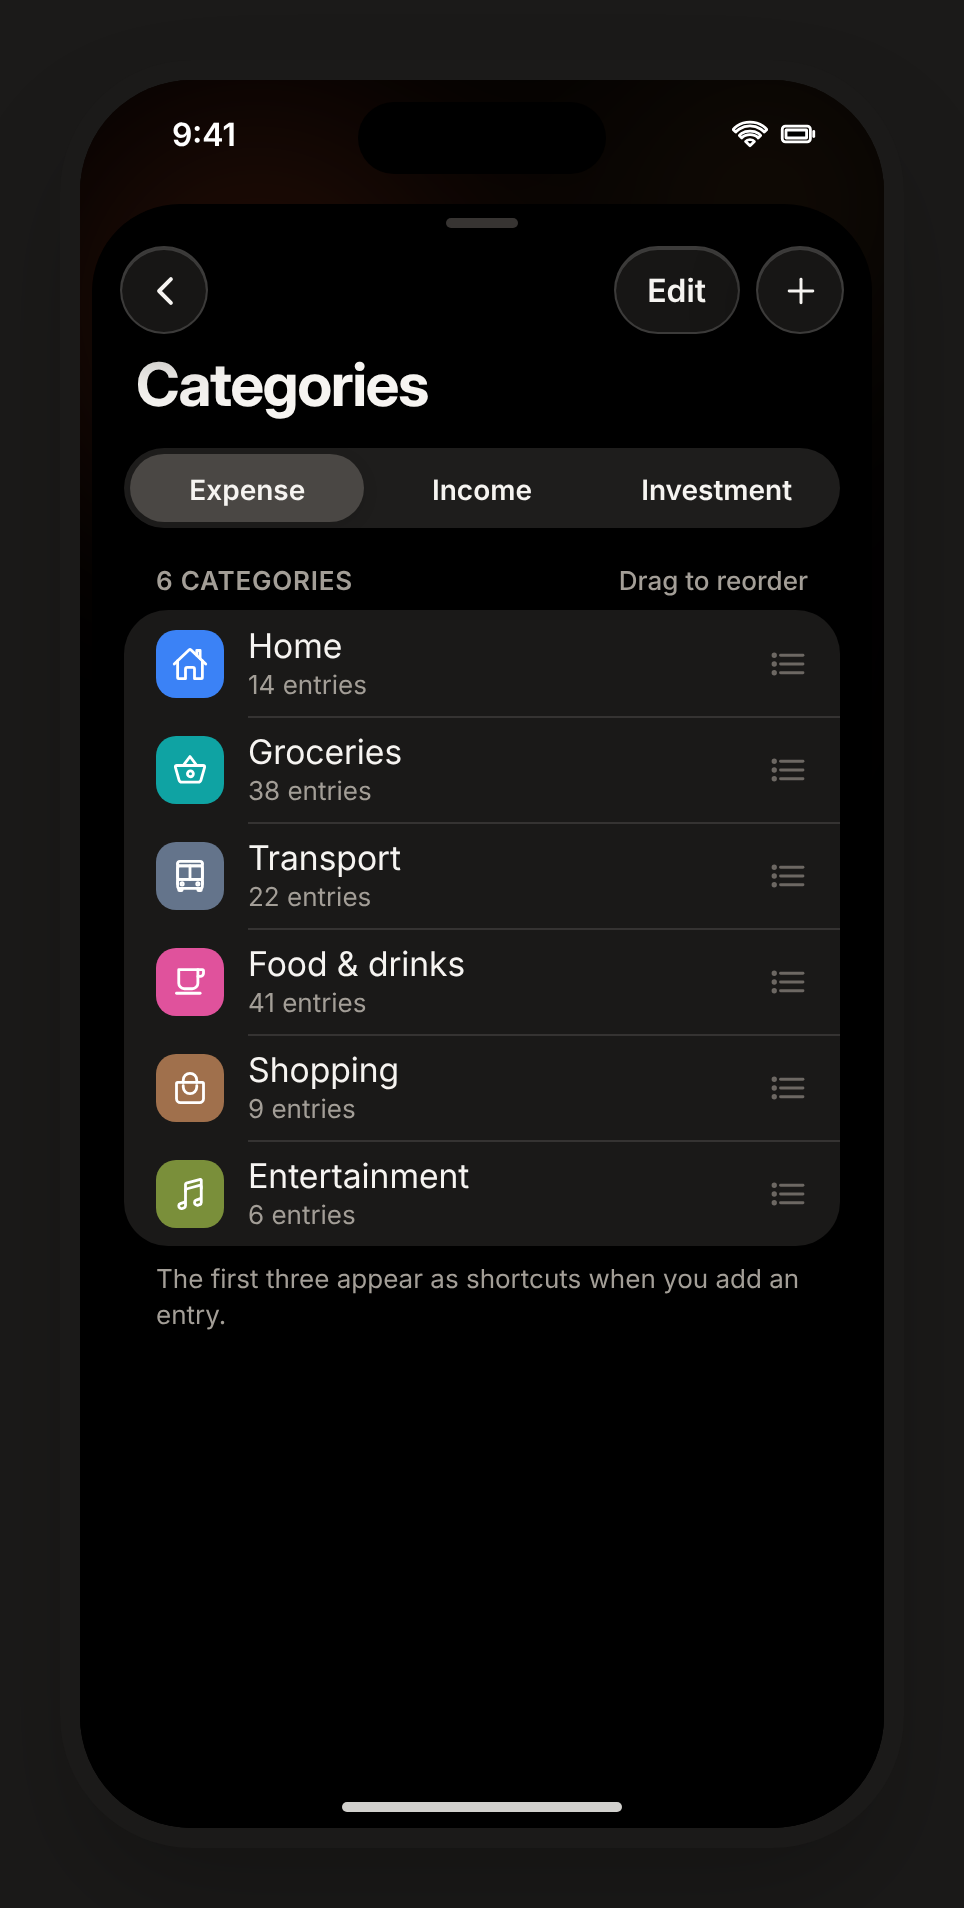
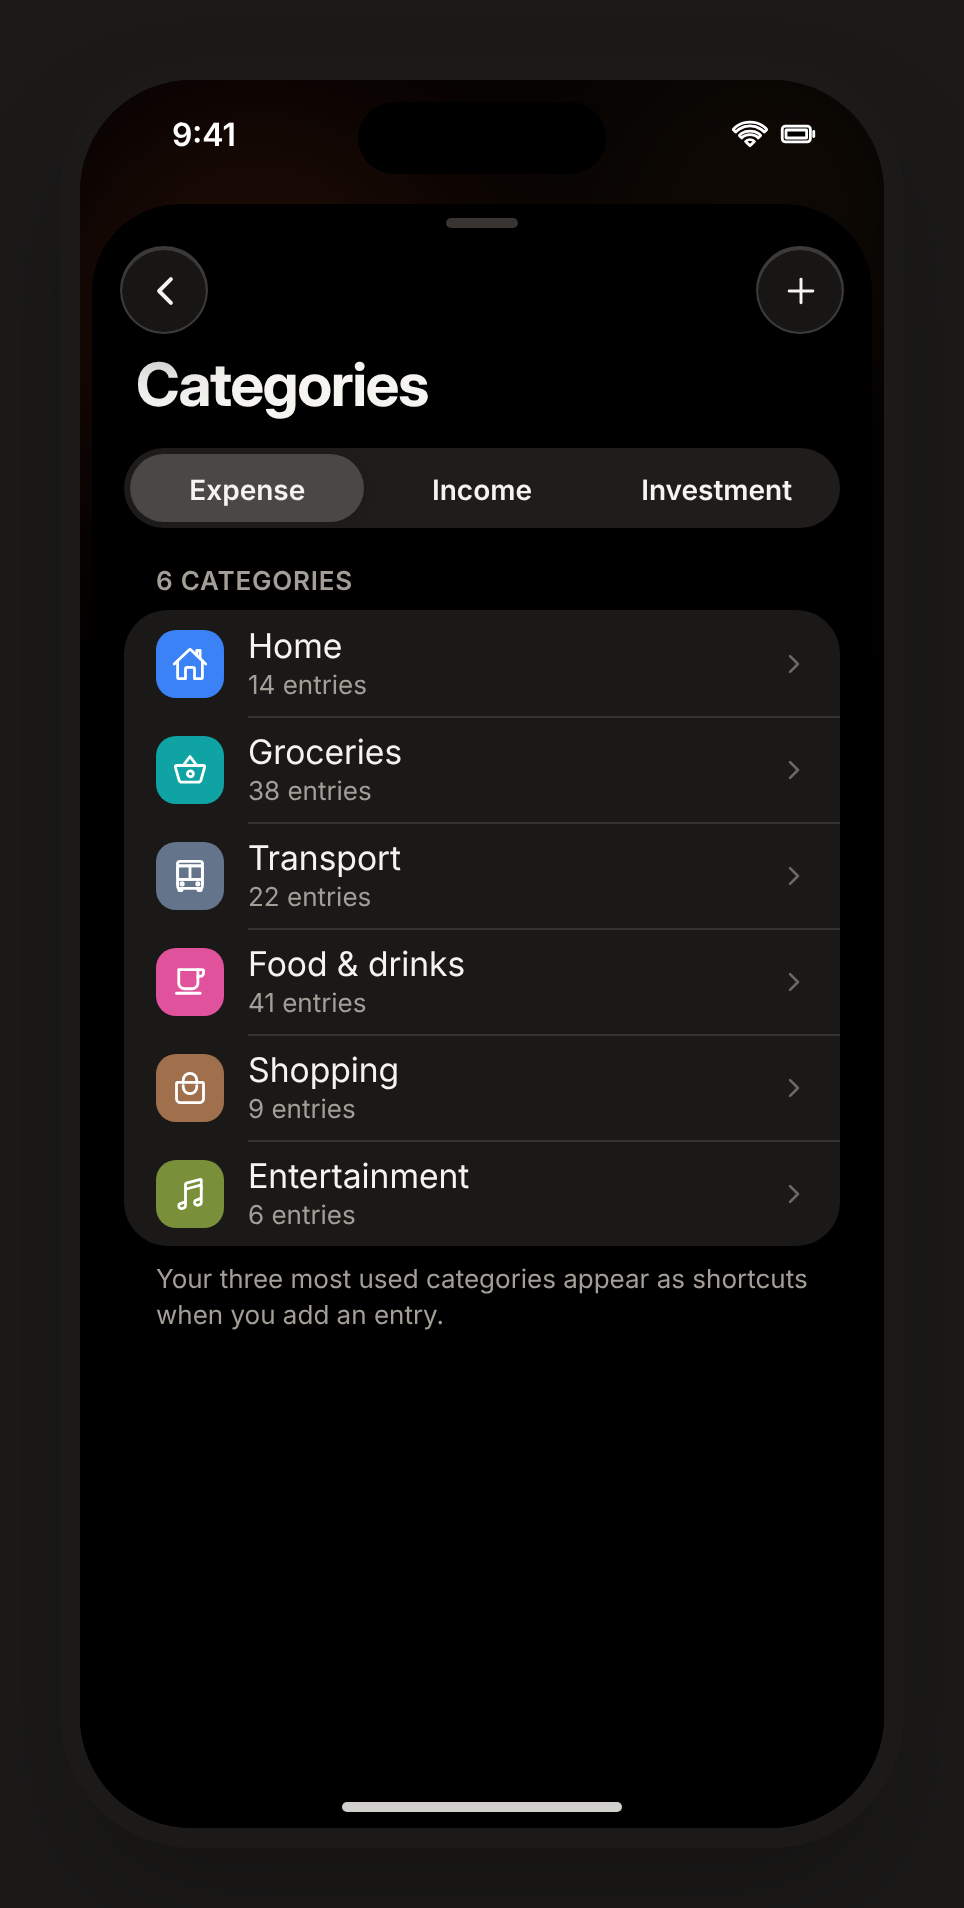
docs(design): drop category reorder, take the app's Reduce transparency wording and center Sign out on the cards
Owner decisions on the Categories, Appearance and sign-out cards: no
Edit, handles or Drag to reorder and a most-used footer on Categories;
the app's Reduce transparency wording and no Text size chevron on
iphone-appearance and ipad-settings; the Settings Sign out row as
centered red text on both sign-out cards. Baselines re-rendered in the
Playwright image.

diff --git a/docs/design/penny-ios/iphone/categories.html b/docs/design/penny-ios/iphone/categories.html
@@ -36,7 +36,6 @@
   .field .cur { width: 2px; height: 22px; background: var(--tint); margin-left: 1px; border-radius: 1px; }
   .seg.in { margin: 0 16px; }
 
-  .handle { width: 20px !important; height: 20px !important; color: var(--label-3); margin-left: auto; }
   .sr + .sr::before { left: 62px; }
   .seg.in { margin-top: 14px; }
   .gh { padding-top: 18px; }
@@ -49,19 +48,19 @@
   <div class="status" style="color:#fff"><span>9:41</span><span class="r"><i data-i="wifi"></i><i data-i="battery-full"></i></span></div>
   <div class="sheet">
     <div class="grabber"></div>
-    <div class="bar"><div class="side"><div class="glass gbtn"><i data-i="chevron-back"></i></div></div><h2></h2><div class="side r"><div class="glass gcap" style="height:44px">Edit</div><div class="glass gbtn"><i data-i="add"></i></div></div></div>
+    <div class="bar"><div class="side"><div class="glass gbtn"><i data-i="chevron-back"></i></div></div><h2></h2><div class="side r"><div class="glass gbtn"><i data-i="add"></i></div></div></div>
     <div class="ltitle">Categories</div>
     <div class="seg in"><div class="on">Expense</div><div>Income</div><div>Investment</div></div>
-    <div class="gh"><span>6 categories</span><span style="text-transform:none;letter-spacing:0;font-weight:500">Drag to reorder</span></div>
+    <div class="gh"><span>6 categories</span></div>
     <div class="glist">
-      <div class="sr"><div class="si" style="background:var(--c-home);color:#fff;width:34px;height:34px;border-radius:10px"><i data-i="home"></i></div><div class="tx">Home<small>14 entries</small></div><i data-i="list" class="handle"></i></div>
-      <div class="sr"><div class="si" style="background:var(--c-groceries);color:#fff;width:34px;height:34px;border-radius:10px"><i data-i="basket"></i></div><div class="tx">Groceries<small>38 entries</small></div><i data-i="list" class="handle"></i></div>
-      <div class="sr"><div class="si" style="background:var(--c-transport);color:#fff;width:34px;height:34px;border-radius:10px"><i data-i="bus"></i></div><div class="tx">Transport<small>22 entries</small></div><i data-i="list" class="handle"></i></div>
-      <div class="sr"><div class="si" style="background:var(--c-food);color:#fff;width:34px;height:34px;border-radius:10px"><i data-i="cafe"></i></div><div class="tx">Food &amp; drinks<small>41 entries</small></div><i data-i="list" class="handle"></i></div>
-      <div class="sr"><div class="si" style="background:var(--c-shopping);color:#fff;width:34px;height:34px;border-radius:10px"><i data-i="bag-handle"></i></div><div class="tx">Shopping<small>9 entries</small></div><i data-i="list" class="handle"></i></div>
-      <div class="sr"><div class="si" style="background:var(--c-entertainment);color:#fff;width:34px;height:34px;border-radius:10px"><i data-i="musical-notes"></i></div><div class="tx">Entertainment<small>6 entries</small></div><i data-i="list" class="handle"></i></div>
+      <div class="sr"><div class="si" style="background:var(--c-home);color:#fff;width:34px;height:34px;border-radius:10px"><i data-i="home"></i></div><div class="tx">Home<small>14 entries</small></div><span class="v"><i data-i="chevron-forward" class="chev"></i></span></div>
+      <div class="sr"><div class="si" style="background:var(--c-groceries);color:#fff;width:34px;height:34px;border-radius:10px"><i data-i="basket"></i></div><div class="tx">Groceries<small>38 entries</small></div><span class="v"><i data-i="chevron-forward" class="chev"></i></span></div>
+      <div class="sr"><div class="si" style="background:var(--c-transport);color:#fff;width:34px;height:34px;border-radius:10px"><i data-i="bus"></i></div><div class="tx">Transport<small>22 entries</small></div><span class="v"><i data-i="chevron-forward" class="chev"></i></span></div>
+      <div class="sr"><div class="si" style="background:var(--c-food);color:#fff;width:34px;height:34px;border-radius:10px"><i data-i="cafe"></i></div><div class="tx">Food &amp; drinks<small>41 entries</small></div><span class="v"><i data-i="chevron-forward" class="chev"></i></span></div>
+      <div class="sr"><div class="si" style="background:var(--c-shopping);color:#fff;width:34px;height:34px;border-radius:10px"><i data-i="bag-handle"></i></div><div class="tx">Shopping<small>9 entries</small></div><span class="v"><i data-i="chevron-forward" class="chev"></i></span></div>
+      <div class="sr"><div class="si" style="background:var(--c-entertainment);color:#fff;width:34px;height:34px;border-radius:10px"><i data-i="musical-notes"></i></div><div class="tx">Entertainment<small>6 entries</small></div><span class="v"><i data-i="chevron-forward" class="chev"></i></span></div>
     </div>
-    <div class="gf">The first three appear as shortcuts when you add an entry.</div>
+    <div class="gf">Your three most used categories appear as shortcuts when you add an entry.</div>
   </div>
   <div class="home-ind"></div>
 </div>

diff --git a/docs/design/penny-ios/iphone/appearance.html b/docs/design/penny-ios/iphone/appearance.html
@@ -74,12 +74,12 @@
     <div class="gh">Display</div>
     <div class="glist">
       <div class="sr noi"><div class="tx">Show cents on Home<small>Left to spend shows $1,116.65 instead of $1,117.</small></div><div class="sw on"></div></div>
-      <div class="sr noi"><div class="tx">Reduce transparency<small>Use solid surfaces instead of glass for the navigation and toolbars. Your iPhone's own setting also applies.</small></div><div class="sw"></div></div>
+      <div class="sr noi"><div class="tx">Reduce transparency<small>Use solid navigation bars and controls instead of glass. Your iPhone's own setting also covers the tab bar and the bars' buttons.</small></div><div class="sw"></div></div>
       <div class="sr noi"><div class="tx">Week starts on</div><span class="v">Monday <i data-i="chevron-down" class="chev"></i></span></div>
     </div>
     <div class="gh">Text</div>
     <div class="glist">
-      <div class="sr noi"><div class="tx">Text size</div><span class="v">Follows iPhone <i data-i="chevron-forward" class="chev"></i></span></div>
+      <div class="sr noi"><div class="tx">Text size</div><span class="v">Follows iPhone</span></div>
     </div>
     <div class="gf">Penny supports Dynamic Type. Change text size in iPhone Settings › Display &amp; Brightness.</div>
   </div>

diff --git a/docs/design/penny-ios/iphone/sign-out.html b/docs/design/penny-ios/iphone/sign-out.html
@@ -19,6 +19,7 @@
   .grp-h { font-size: 13px; color: var(--label-2); text-transform: uppercase; letter-spacing: .03em; font-weight: 600; padding: 22px 20px 8px; }
   .srow { display: flex; align-items: center; gap: 12px; padding: 0 16px; height: 52px; font-size: 16px; position: relative; }
   .srow + .srow::before { content: ""; position: absolute; top: 0; left: 60px; right: 0; border-top: .5px solid var(--separator); }
+  .srow + .srow.noi::before { left: 16px; }
   .srow .ic { width: 30px; height: 30px; border-radius: 8px; }
   .srow .ic [data-i] { width: 17px; height: 17px; }
   .srow .v { margin-left: auto; color: var(--label-2); }
@@ -34,7 +35,7 @@
     <div class="list">
       <div class="srow"><div class="ic" style="background:#8E8A85"><i data-i="server"></i></div>Server<span class="v">penny.example.com</span></div>
       <div class="srow"><div class="ic" style="background:#8E8A85"><i data-i="cloud-offline"></i></div>Sync<span class="v">2 waiting</span></div>
-      <div class="srow" style="color:var(--danger)"><div class="ic" style="background:var(--danger)"><i data-i="log-out"></i></div>Sign out</div>
+      <div class="srow noi" style="justify-content:center;color:var(--danger);font-weight:500">Sign out</div>
     </div>
   </div>
   <div class="scrim"></div>

diff --git a/docs/design/penny-ios/iphone/sign-out-plain.html b/docs/design/penny-ios/iphone/sign-out-plain.html
@@ -19,6 +19,7 @@
   .grp-h { font-size: 13px; color: var(--label-2); text-transform: uppercase; letter-spacing: .03em; font-weight: 600; padding: 22px 20px 8px; }
   .srow { display: flex; align-items: center; gap: 12px; padding: 0 16px; height: 52px; font-size: 16px; position: relative; }
   .srow + .srow::before { content: ""; position: absolute; top: 0; left: 60px; right: 0; border-top: .5px solid var(--separator); }
+  .srow + .srow.noi::before { left: 16px; }
   .srow .ic { width: 30px; height: 30px; border-radius: 8px; }
   .srow .ic [data-i] { width: 17px; height: 17px; }
   .srow .v { margin-left: auto; color: var(--label-2); }
@@ -34,7 +35,7 @@
     <div class="list">
       <div class="srow"><div class="ic" style="background:#8E8A85"><i data-i="server"></i></div>Server<span class="v">penny.example.com</span></div>
       <div class="srow"><div class="ic" style="background:#8E8A85"><i data-i="cloud-done"></i></div>Sync<span class="v">Up to date</span></div>
-      <div class="srow" style="color:var(--danger)"><div class="ic" style="background:var(--danger)"><i data-i="log-out"></i></div>Sign out</div>
+      <div class="srow noi" style="justify-content:center;color:var(--danger);font-weight:500">Sign out</div>
     </div>
   </div>
   <div class="scrim"></div>

diff --git a/docs/design/penny-ios/ipad/settings.html b/docs/design/penny-ios/ipad/settings.html
@@ -129,12 +129,12 @@
       <div class="gh">Display</div>
       <div class="glist">
         <div class="sr noi"><div class="tx">Show cents on Home<small>Left to spend shows $1,116.65 instead of $1,117.</small></div><div class="sw on"></div></div>
-        <div class="sr noi"><div class="tx">Reduce transparency<small>Use solid surfaces instead of glass for the navigation and toolbars. Your iPad's own setting also applies.</small></div><div class="sw"></div></div>
+        <div class="sr noi"><div class="tx">Reduce transparency<small>Use solid navigation bars and controls instead of glass. Your iPad's own setting also covers the tab bar and the bars' buttons.</small></div><div class="sw"></div></div>
         <div class="sr noi"><div class="tx">Week starts on</div><span class="v">Monday <i data-i="chevron-down" class="chev"></i></span></div>
       </div>
       <div class="gh">Text</div>
       <div class="glist">
-        <div class="sr noi"><div class="tx">Text size</div><span class="v">Follows iPad <i data-i="chevron-forward" class="chev"></i></span></div>
+        <div class="sr noi"><div class="tx">Text size</div><span class="v">Follows iPad</span></div>
       </div>
     </div></div>
   </div>

diff --git a/.design-sync/NOTES.md b/.design-sync/NOTES.md
@@ -46,3 +46,4 @@
 - **Sankey logic:** `MoneyFlow` copies the rules of `apps/web/src/domain/selectors/moneyFlow.ts` (top five plus "N more", Beyond income, Left over). Changes to the app's flow logic won't reach the kit automatically.
 - **Hand-maintained mirrors:** `conventions.md` and `docs/*.md` repeat these rules in prose. Re-validate names against the build on every sync.
 - **Toolchain pins:** esbuild 0.25 and TypeScript 5.9, recorded in `design-kit/package-lock.json`.
+- **Categories, Appearance and sign-out (MAZ-257, owner decisions):** `iphone/categories.html` drops Edit, the drag handles and "Drag to reorder"; its rows end in a chevron and its footer says "Your three most used categories appear as shortcuts when you add an entry.", because Penny keeps no category order. `iphone/appearance.html` and `ipad/settings.html` take the app's Reduce transparency wording ("Use solid navigation bars and controls instead of glass. Your iPhone's own setting also covers the tab bar and the bars' buttons.", iPad's on the iPad card) and drop the chevron after "Follows iPhone" / "Follows iPad" on Text size. `iphone/sign-out.html` and `iphone/sign-out-plain.html` draw the Sign out row behind the confirmation as `iphone/settings.html` does: centered red text, no icon tile. Baselines re-rendered in the Playwright image. No kit change. Push the five cards at the next re-sync.
